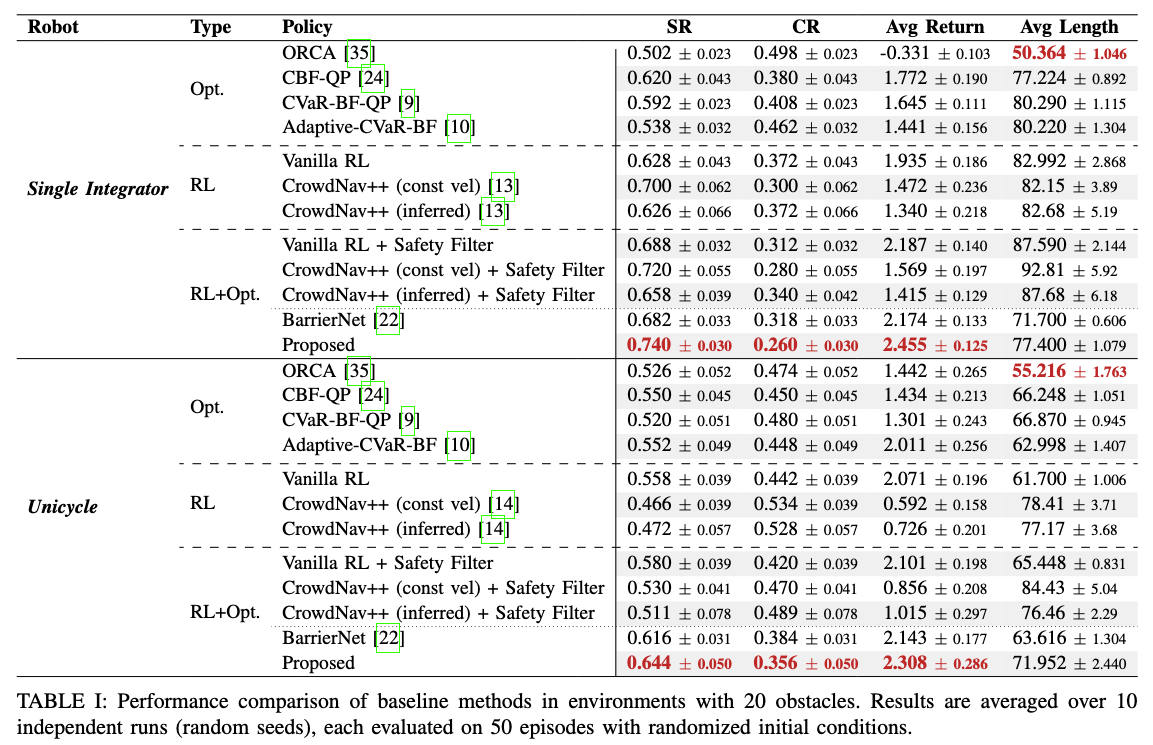
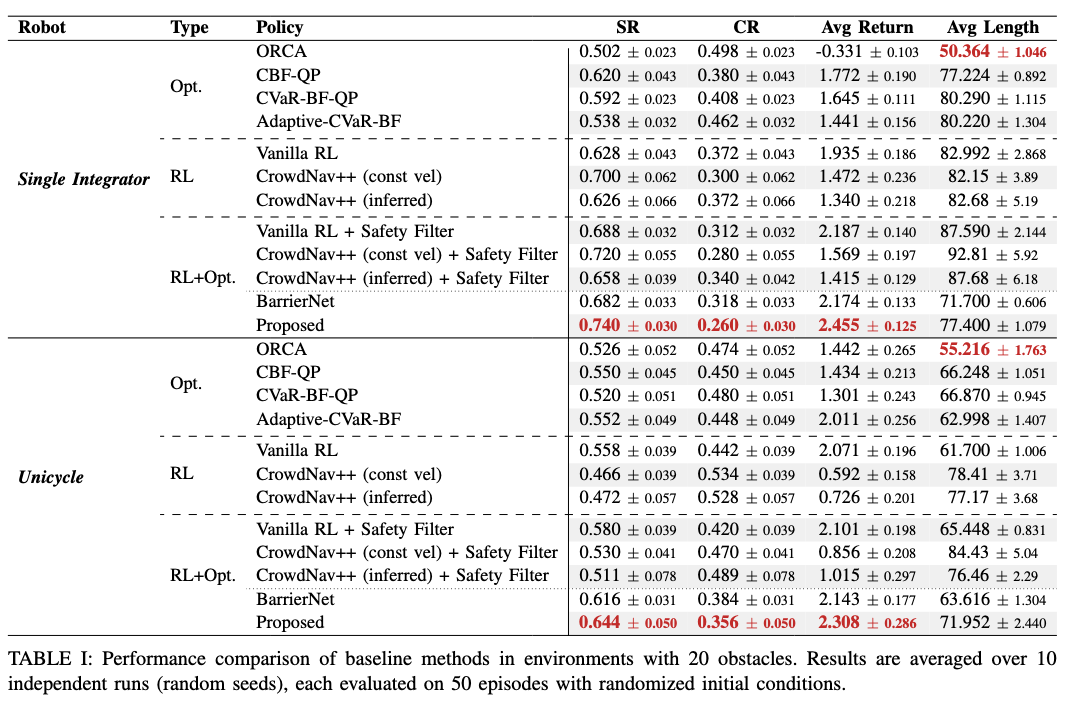
Remove top navbar and keep sticky guide

diff --git a/index.html b/index.html
@@ -60,34 +60,6 @@
   </div>
 </div>
 
-<nav class="navbar" role="navigation" aria-label="main navigation">
-  <div class="navbar-brand">
-    <a role="button" class="navbar-burger" aria-label="menu" aria-expanded="false" data-target="navMenu">
-      <span aria-hidden="true"></span>
-      <span aria-hidden="true"></span>
-      <span aria-hidden="true"></span>
-    </a>
-  </div>
-  <div id="navMenu" class="navbar-menu">
-    <div class="navbar-start" style="flex-grow: 1; justify-content: center; flex-wrap: wrap;">
-      <a class="navbar-item" href="https://lawliet9666.github.io" title="Home">
-        <span class="icon"><i class="fas fa-home"></i></span>
-      </a>
-      <a class="navbar-item" href="#sec-abstract">Abstract</a>
-      <a class="navbar-item" href="#sec-motivation">Motivation</a>
-      <a class="navbar-item" href="#sec-method">Method</a>
-      <a class="navbar-item" href="#sec-teaser">Teaser</a>
-      <a class="navbar-item" href="#sec-id-demos">ID Demos</a>
-      <a class="navbar-item" href="#sec-ood-demos">OOD Demos</a>
-      <a class="navbar-item" href="#sec-results">Statistical Results</a>
-      <a class="navbar-item" href="#sec-video">Video</a>
-      <a class="navbar-item" href="#acknowledgement">Acknowledgement</a>
-      <a class="navbar-item" href="#sec-bib">BibTeX</a>
-    </div>
-  </div>
-</nav>
-
-
 <section class="hero">
   <div class="hero-body">
     <div class="container is-max-desktop">
